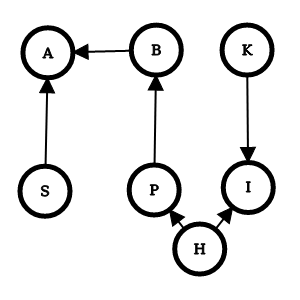
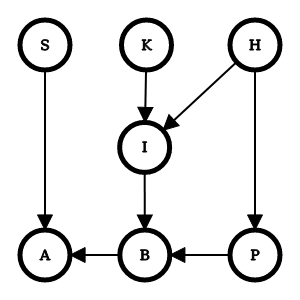
discussion

diff --git a/docs/project3.tex b/docs/project3.tex
@@ -7,7 +7,7 @@
 \usepackage{texfiles/MediocreMike}
 \usepackage{multicol}
 
-\title{Causal Inference: The Data of 7 Intertwined Effects }
+\title{Causal Inference on 7 Intertwined Effects }
 \author{Søren Winkel Holm et al.}
 \date{\today}
 
@@ -51,10 +51,11 @@
 \texttt{Code available at \url{github.com/sorenmulli/active_learning_cases}} \newline
 \begin{itemize}
 	\item Approach: Few data points, more risk seeking. Motivated by cost parameters.
-	\item Statistical tests: Student t test of means. Confidence interval on correlations. Comparing standard deviations.
+	\item Queries were motivated by areas of uncertainty (=disagreement in the group) about the graph and intervention values close to the extreme were chosen.
+	\item Statistical tests: Student t test of means. Confidence interval on correlations. Comparing standard deviations. Bartlett's test of equal variance (nævner jeg i diskussionen)
 	\item Visualization tools: Scatter plot of joint distribution. Comparisons of marginal distributions between queries.
 	\item Writing up all 42 possible edges and eliminating the unlikely and achieving smaller set of possible edges where many are mutually exclusive given assumptions (mention acyclic, we had an idea of linearity)
-	\item Constructing hypotheses consistent with the data and trying loosely to apply counterfactuals to predict next query.
+	\item Constructing hypotheses consistent with the data and trying loosely to apply counterfactuals to predict result of next query.
 \end{itemize}
 
 %\textbf{First experiment:} 25 samples were drawn from the standard dataset. This shows some correlation between B and P, I and P, I and B and B and K.
@@ -200,28 +201,39 @@
 
 \paragraph{Cost}
 \[
-\underbrace{425}_{\text{\# points}} + \underbrace 9_ {\text{\# experiments}} \cdot 20 +\underbrace{70}_{\text{Guess}}=612
+\underbrace{425}_{\text{\# points}} + \underbrace {9}_ {\text{\# experiments}} \cdot 20 +\underbrace{70}_{\text{Guess}}=612
 \]
 
 \begin{figure}[H]
 	\centering
 	\includegraphics[width=.6\linewidth]{wronggraph}
-	\caption{Wrong graph guess. Note that especially the role of node A is misunderstood. Three edges are correct and four are wrong. Two nodes (P and K) have three conected edges.}
+	\caption{Wrong graph guess. Note that especially the effects on node A are misunderstood. Four edges are correct and three are wrong.}
 	\label{fig:wronggraph}
 \end{figure}
 \begin{figure}[H]
 	\centering
 	\includegraphics[width=.6\linewidth]{correctgraph}
-	\caption{Correct graph. The causal complexity is lower here than in the wrong graph with no nodes having three connections.}
+	\caption{Correct graph. Amongst the corrections was K's reclassification from mediator to root cause.  }
 	\label{fig:correctgraph}
 \end{figure}
 
 	
 \section{Discussion}
-The approach of more queries each with few data points had strengths and weaknesses. It allowed for a healthy process of estimating the expected result under each of the hypotheses that were viable at that time .
+The approach of a higher number of  queries, each with few data points, had strengths and weaknesses. This approach allowed for a healthy process of estimating the expected result under each of the hypotheses that were viable at that time and getting falsified these hypotheses often. 
 
-	
-	\section{Learning outcomes} 
+It also had some drawbacks that resulted in some confusion. A large amount of time was spent trying to create complicated causal relationships to explain effects that the next query were revealed to be spurious. This was amplified by most of the nodes having high variance compared to their numerical size.
+% There were also issues with using statistical tests whose assumptions were questionable: Bartlett's test of equal variance gave false flags in the small data sets early on\footnote{The test is according to \cite{bartlett} sensitive to normality and suggested spuriously that }.
+
+Another issue which held back the learning significantly and resulted in the need for at least one intervention on every variable was the underlying assumptions of the causal relationships. During most of the inference, linear, additive effects were the framework for modelling the graph. This misunderstanding resulted in some causal hypotheses to be overly complex to explain the effects on the node A. The effect from B to A was very difficult to encapsulate in the linear generative story and was thus often ignored and attributed to noise -- possibly an example of human confirmation bias. 
+
+The non linear and more subtle effects were only discovered when (a) more data points were collected for the non-interventional data to iron out the spurious correlations, (b) the rigorous falsification of the 42 edges were performed and (c) \(\mathring{B\leftarrow0}\) was used to verify the suspicion of non linearity at A.
+\\
+\\
+This task of finding the causal relationships from non-trivial data can be compared to the process of scientific discovery. While this causal graph is idealized and stripped of many practical problems of reality, the core goals and methods are comparable. The worries of where hidden, confounding variables -- in this case H -- lie in the network is a core issue.
+
+A major difference to causal inference in real world data is that the number of possible explaining variables was fixed and known a priori in this project. A real study includes the challenge of limiting the included effects and may risk interpreting the results completely wrong if key variables are excluded. Even in this idealized setting, very similar problems occurred as key non linear effects were missed, highlighting the pitfalls of considering a too small version space. %Er version space dækkende for rummet af hypoteser?
+
+\section{Learning outcomes} 
 	
 \end{multicols}
 

diff --git a/src/causality_inference.py b/src/causality_inference.py
@@ -63,6 +63,7 @@ if __name__ == "__main__":
 	os.chdir(sys.path[0])
 	paths,datalist = csv_read('saved_data/causality')
 	for i, data in enumerate(datalist):
+		print(paths[i])
 		summary_analyze(data)
 	# summary_analyze(datalist[0])
 	# summary_analyze(datalist[0], condition = ('S', 1))
@@ -74,9 +75,10 @@ if __name__ == "__main__":
 	# summary_analyze(datalist[6])
 	# summary_analyze(datalist[7])
 	# data_compares = data[data['S'] == 1], data
-	# data_compares = datalist[0], datalist[7]
-	# for var in 'BP':
-		# compare(*data_compares, var)
+	print(paths[2])
+	data_compares = datalist[0], datalist[4]
+	for var in 'A':
+		compare(*data_compares, var)
 
 
 	# plt.boxplot( datalist[0]['K'], )
